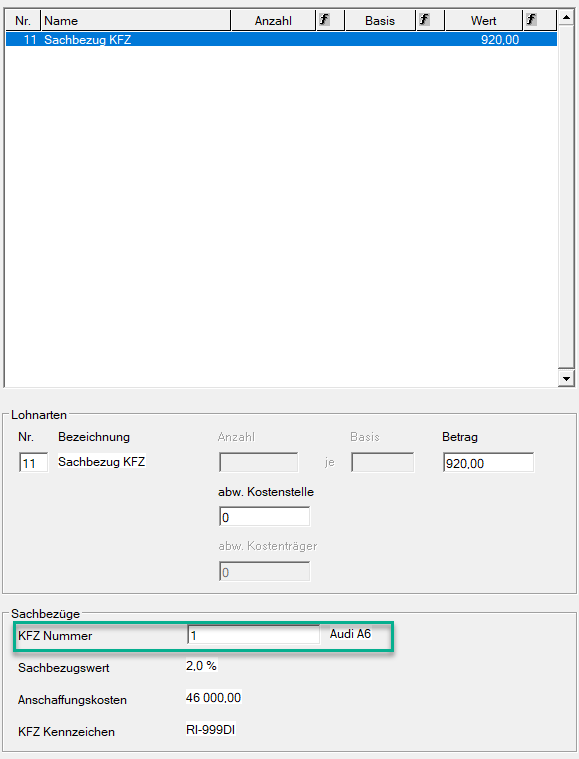
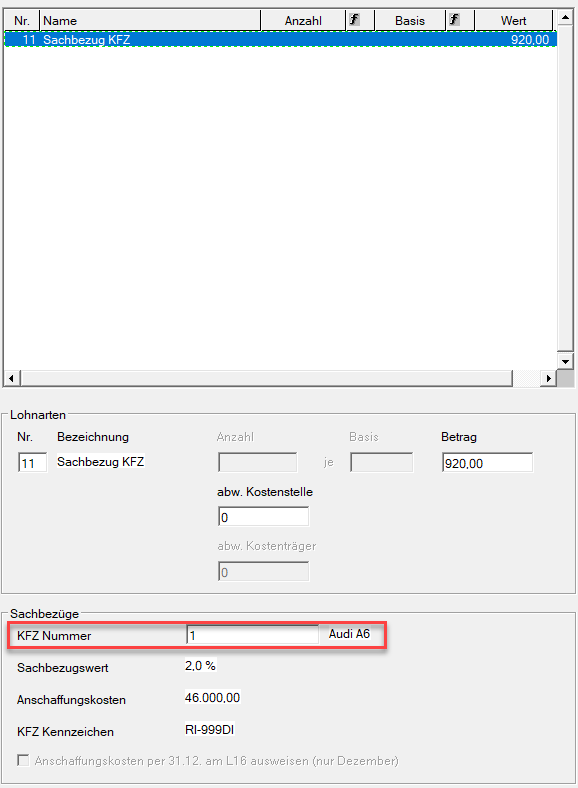
LOHN 2.26.8.0 Änderungen (#200)
* Abrechnung Sonderfälle: Mitarbeiterprämie 2026 hinzugefügt

* Clearingcode VW1924 ergänzt

* Clearingfälle: Frage VW1924 ergänzt

* Sachbezüge: Wechsel KFZ im Dezember ergänzt

* Elektronische Meldungen - KSB: Ausdruck und Speicherung KSB ELDA Webservice

* ELDA Webservice: Verlinkt mit KSB speichern und drucken

* Klientenstammdaten - Kommunalsteuer: Zahlungsreferenz Platzhalterproblem

* Sachbezug: Screens geändert

diff --git a/docs/LOHN/Abrechnungen_Sonderfälle/Mitarbeiterpraemie_2026.md b/docs/LOHN/Abrechnungen_Sonderfälle/Mitarbeiterpraemie_2026.md
@@ -1,0 +1,123 @@
+# Mitarbeiterprämie 2026
+
+Im Kalenderjahr 2026 ist es unter bestimmten Formalvoraussetzungen möglich, die **Mitarbeiterprämie** bis zur Höhe von EUR 500,00 pro Arbeitnehmer steuerfrei zu gewähren (§&nbsp;124b Z 478 lit. f EStG).
+
+## Anspruchsgrundlage
+
+Die Zahlung muss aufgrund einer lohngestaltenden Vorschrift gemäß § 68 Abs. 5 Z 5 oder 6 EStG gewährt werden. Rechtsgrundlage für die Zahlung können daher sein:
+
+- ein (Zusatz-)Kollektivvertrag, der einen Anspruch auf Mitarbeiterprämie 2026 festlegt
+- ein (Zusatz-)Kollektivvertrag, der zur Regelung einer Mitarbeiterprämie durch Betriebsvereinbarung ermächtigt, kombiniert mit einer auf dieser Grundlage abgeschlossenen Betriebsvereinbarung. In Betrieben ohne Betriebsrat kann aufbauend auf der kollektivvertraglichen Ermächtigung auch eine Vereinbarung für alle Arbeitnehmer geschlossenen werden.
+- in Branchen, in denen es keinen kollektivvertragsfähigen Arbeitgeberverband gibt (z. B. Vereine, die nicht WKO-Mitglied sind), eine Betriebsvereinbarung mit zusätzlicher ÖGB-Unterschrift. In Betrieben ohne Betriebsrat kann in diesem Fall auch eine Vereinbarung für alle Arbeitnehmer geschlossenen werden.
+
+Das bedeutet: **In Branchen, in denen es einen Arbeitgeberverband gibt** (somit bei allen Betrieben, die Mitglied in der Wirtschaftskammer, einer anderen Kammer oder einer freiwilligen Interessensvereinigung sind), **können steuerfreie Mitarbeiterprämien im Jahr 2026 ausschließlich durch Kollektivvertrag festgelegt** werden.
+
+## Auszahlungszeitpunkt
+
+Begünstigt sind nur zusätzliche Zulagen und Bonuszahlungen, die der Arbeitgeber in den Kalendermonaten **Juli bis Dezember 2026** gewährt. Das bedeutet:
+
+- Arbeitgeber, die in der Hoffnung auf einen positiven Ausgang der Evaluierung der Mitarbeiterprämie für 2026 bereits im ersten Halbjahr Auszahlungen vorgenommen haben, können die Lohnsteuerbegünstigung für die Mitarbeiterprämie 2026 nicht auf diese Zahlungen anwenden.
+- Die zweite Kaufkraftsicherungsprämie in der Metallindustrie erfüllt diese Vorgabe, da der Kollektivvertrag die Auszahlung im Juli 2026 vorsieht.
+- Die Zahlung der Mitarbeiterprämie muss nach dem Gesetzeswortlaut spätestens im Kalendermonat Dezember 2026 erfolgen. Nach den Erläuterungen zur Regierungsvorlage kann eine Nachzahlung nach § 77 Abs 5 EStG bis zum 15. 2. 2027 mittels Aufrollung als steuerfreie Mitarbeiterprämie 2026 berücksichtigt werden. Das setzt voraus, dass die gewährte Mitarbeiterprämie im Jahr 2026 fällig ist, aber eine rechtzeitige Auszahlung aufgrund besonderer Umstände nicht erfolgen kann. Die Festlegung durch die Sozialpartner und der Abschluss von Betriebsvereinbarungen auf dieser Grundlage müssen daher dennoch in dem sportlich kurzen Zeitraum von rund sechs Monaten ab Gesetzwerdung bewältigt werden.
+
+## Begünstigte Höhe
+
+Die Mitarbeiterprämie 2026 soll für den einzelnen Arbeitnehmer bis **EUR 500** steuerfrei sein. Eine im Kalenderjahr 2026 ebenfalls ausbezahlte Gewinnbeteiligung gemäß § 3 Abs 1 Z 35 EStG ist nur insoweit steuerfrei, als sie gemeinsam mit der Mitarbeiterprämie den Betrag von EUR&nbsp;3.000,00 pro Kalenderjahr nicht übersteigt.
+
+Wird mehr als EUR 500,00 für die Mitarbeiterprämie steuerfrei berücksichtigt und gleichzeitig der Gesamtbetrag von EUR 3.000,00 für die Mitarbeiterprämie und Gewinnbeteiligung überschritten, besteht ein Pflichtveranlagungstatbestand gem. [§&nbsp;41&nbsp;Abs.&nbsp;1 EStG](https://www.ris.bka.gv.at/NormDokument.wxe?Abfrage=Bundesnormen&Gesetzesnummer=10004570&Artikel=&Paragraf=41&Anlage=&Uebergangsrecht=).
+
+## Keine Befreiung im Bereich der Sozialversicherung, DB/DZ und Kommunalsteuer
+
+Für das Jahr 2026 sieht der Gesetzgeber **keine Befreiung** im Bereich der **Sozialversicherung** sowie der Nebenabgaben **DB/DZ** und **Kommunalsteuer** vor.
+
+Es ist nicht möglich, die auf die Prämie entfallenden Dienstnehmeranteile zur Sozialversicherung bei der Ermittlung der Lohnsteuer-Bemessungsgrundlage abzuziehen (laut [§ 20 Abs. 2 EStG](https://www.ris.bka.gv.at/NormDokument.wxe?Abfrage=Bundesnormen&Gesetzesnummer=10004570&Artikel=&Paragraf=20&Anlage=&Uebergangsrecht=)). Das bedeutet, dass sich der Auszahlungsbetrag an die Dienstnehmer nicht um den vollen steuerfreien Maximalbetrag von EUR 500,00 erhöht, sondern nur um einen entsprechend geringeren Nettobetrag.
+
+Wie in [§ 124b Z 478 lit. f sublit. aa EStG](https://www.ris.bka.gv.at/NormDokument.wxe?Abfrage=Bundesnormen&Gesetzesnummer=10004570&Artikel=&Paragraf=124b&Anlage=&Uebergangsrecht=) festgelegt, erhöht die Mitarbeiterprämie 2026 das Jahressechstel **nicht**.
+
+Die Abrechnung der Mitarbeiterprämie 2026 in der RZL Lohnverrechnung muss über eine neu anzulegende freie Lohnart erfolgen. Diese ist entweder unter *Stamm / Lohnarten* oder in der Kanzleilohnartentabelle unter *Klient / Kanzlei / Lohnarten, Lohnformeln* anzulegen.
+
+## Abrechnung in der RZL Lohnverrechnung
+
+Die Entscheidung ob im Bereich der Sozialversicherung ein **laufender Bezug** oder eine **Sonderzahlung** vorliegt, muss in jedem Einzelfall sorgfältig abgewogen werden. Dabei kommt es nicht nur auf den Zeithorizont der Auszahlung an, sondern auch auf die Frage, ob mit dem Dienstnehmer eine wiederholte Gewährung der Prämie vereinbart wurde oder nicht.
+
+Zudem ist zu klären, ob aus der bisherigen Auszahlung von Corona-Prämien, Teuerungsprämien oder Mitarbeiterprämie 2024 und 2025 eine wiederkehrende Zahlung abgeleitet werden kann – oder eben nicht.
+
+### Erstmalige, absolut einmalige Gewährung ohne Vereinbarung einer Wiederkehr
+
+Wird keine Wiederkehr vereinbart und handelt es sich um den erstmaligen Bezug der Mitarbeiterprämie, liegt in der Sozialversicherung ein laufender Bezug vor (**SV-Pflichtigkeit = 1**).
+
+![Image](img/image622.png){width="500"}
+
+!!! warning "Hinweis"
+    Unser Vorschlag zur Anlage der Lohnart basiert auf dem Informationsstand aus verschiedenen Fachartikeln mit Stand **Juli 2026**. Die Letztverantwortung für die korrekte Anlage der Lohnarten liegt beim Anwender.
+
+Im Bereich der Lohnsteuer gibt es eine eigene Lohnsteuerpflicht-Nr. **40 steuerfrei gem. § 124b Z 478 EStG – Mitarbeiterprämie 2025 u. 2026**.
+
+Eine Befreiung von den **Lohnnebenkosten** (DB, DZ und Kommunalsteuer) ist vom Gesetzgeber nicht vorgesehen. In diesem Bereich muss die Lohnart daher als **1 = pflichtig** definiert werden.
+
+### Wiederkehrender Bezug
+
+Wird hingegen bereits im Vorfeld eine mehrmalige Auszahlung dieser Lohnart vereinbart, gilt sie im Bereich der Sozialversicherung als **Sonderzahlung** (**Pflichtigkeit = 2**). Alle übrigen Regelungen bleiben unverändert.
+
+![Image](img/image623.png){width="500"}
+
+!!! warning "Hinweis"
+    Unser Vorschlag zur Anlage der Lohnart basiert auf dem Informationsstand aus verschiedenen Fachartikeln mit Stand **Juli 2026**. Die Letztverantwortung für die korrekte Anlage der Lohnarten liegt beim Anwender.
+
+### Beispiele
+
+**Beispiel 1**
+
+In beiden Varianten der Auszahlung (laufender Bezug oder Sonderzahlung) trifft die Pflichtigkeit in der Sozialversicherung auf eine Abgabenbefreiung in der Lohnsteuer. Diese inzwischen seltene Konstellation führt - insbesondere im Zusammenhang mit der Darstellung am L16 (Jahreslohnzettel) - dazu, dass die SV-Dienstnehmeranteile „neutralisiert“ werden müssen. Gemäß [§ 20 Abs. 2 EStG](https://www.ris.bka.gv.at/NormDokument.wxe?Abfrage=Bundesnormen&Gesetzesnummer=10004570&Artikel=&Paragraf=20&Anlage=&Uebergangsrecht=) dürfen Sozialversicherungsbeiträge, die sich auf nicht steuerpflichtige Einkünfte beziehen, nicht als Werbungskosten vom steuerpflichtigen Einkommen abgezogen werden.
+
+- Laufender Bezug: EUR 3.500,00
+- Mitarbeiterprämie 2026 (einmalig): EUR 500,00
+
+![Image](img/image633.png){width="600"}
+
+Der gesamte SV-Dienstnehmeranteil beträgt EUR 722,80 und setzt sich wie folgt zusammen:
+
+- EUR 632,45 entfallen auf das laufende Gehalt (3.500,00 x 18,07 %)
+- EUR 90,35 entfallen auf die steuerfreie Mitarbeiterprämie 2026 (500,00 x 18,07 %)
+
+Der auf die Mitarbeiterprämie entfallende Anteil von EUR 90,35 darf **nicht** als Werbungskosten bei der Ermittlung der Lohnsteuer-Bemessungsgrundlage berücksichtigt werden, da die zugrunde liegende Prämie steuerfrei ist.
+
+|                                 |         |              |
+| :------------------------------ | :------ | -----------: |
+| Brutto                          | EUR     |     4.000,00 |
+| - SV-DNA (3.500,00 x 18,07 %)   | EUR     |     - 632,45 |
+| - steuerfreie Mitarbeiterprämie | EUR     |     - 500,00 |
+| **Lohnsteuer-BMGL lfd.**        | **EUR** | **2.867,55** |
+
+Im L16 (Jahreslohnzettel) wird über die Kennzahl 226 jener Teil der SV-Dienstnehmeranteile ausgeschieden, der auf die steuerfreie Mitarbeiterprämie 2026 entfällt. Dieser Anteil darf die laufende Lohnsteuer-Bemessungsgrundlage daher **nicht** mindern.
+
+![Image](img/image634.png){width="600"}
+
+![Image](img/image635.png){width="600"}
+
+**Beispiel 2**
+
+- Laufender Bezug: EUR 8.000,00
+- Mitarbeiterprämie 2026 (einmalig): EUR 500,00
+
+Bei Überschreitung der laufenden Höchstbeitragsgrundlage müssen die SV-Dienstnehmeranteile anteilig im Verhältnis der Bruttobezüge zugeordnet werden (EUR 8.000,00 = 94,12 % zu EUR&nbsp;500,00 = 5,88 %).
+
+![Image](img/image636.png){width="600"}
+
+Der gesamte SV-Dienstnehmeranteil beträgt EUR 1.252,25 und wird entsprechend dem Verhältnis 94,12 % zu 5,88 % aufgeteilt:
+
+- EUR 1.178,59 entfallen auf den laufenden Bezug und sind abzugsfähig (1.252,25 x 94,12 %)
+- EUR 73,66 entfallen auf die steuerfreie Mitarbeiterprämie 2026 und sind nicht als Werbungskosten abzugsfähig (1.252,25 x 5,88 %)
+
+Nur der auf den steuerpflichtigen Teil entfallende Anteil der SV-Beiträge darf bei der Ermittlung der Lohnsteuer-Bemessungsgrundlage als Werbungskosten berücksichtigt werden.
+
+|                                 |         |              |
+| :------------------------------ | :------ | -----------: |
+| Brutto                          | EUR     |     8.500,00 |
+| - SV-DNA                        | EUR     |   - 1.178,59 |
+| - steuerfreie Mitarbeiterprämie | EUR     |     - 500,00 |
+| **Lohnsteuer-BMGL lfd.**        | **EUR** | **6.821,41** |
+
+![Image](img/image637.png){width="600"}
+
+Dadurch wird der Teil der Sozialversicherungsbeiträge, der auf die Mitarbeiterprämie entfällt (EUR&nbsp;73,66), über die Kennzahl 226 ausgeschieden.

diff --git a/docs/LOHN/Sachbezüge/Sachbezug_in_der_Abrechnung.md b/docs/LOHN/Sachbezüge/Sachbezug_in_der_Abrechnung.md
@@ -25,3 +25,18 @@ Ein Ausdruck bzw. die elektronische Übermittlung des Jahreslohnzettels 2026 ist
     
     Die *Anschaffungskosten Kfz zum 31.12.* sind nur dann anzugeben, wenn zum 31.12. tatsächlich ein KFZ-Sachbezug vorliegt.
 
+## Wechsel des KFZ-Sachbezugs im Dezember
+
+Wird das Fahrzeug im Dezember gewechselt, sind ausschließlich die Anschaffungskosten des am 31. Dezember aktuellen KFZ-Sachbezugs auszuweisen.
+
+Damit der Fahrzeugwechsel auf dem Jahreslohnzettel korrekt dargestellt wird, deaktivieren Sie beim bisherigen Sachbezug unter **Freie Lohnarten** oder **Abzüge** die Option *Anschaffungskosten per 31.12. am L16 ausweisen (nur Dezember)*.
+
+![Image](img/image872.png)
+
+Dadurch werden die Anschaffungskosten dieses Fahrzeugs für Dezember nicht berücksichtigt. Auf dem Jahreslohnzettel (L16) werden nur die Anschaffungskosten des zum 31. Dezember aktiven Fahrzeugs ausgewiesen.
+
+!!! warning "Hinweis"
+    Die Option *Anschaffungskosten per 31.12. am L16 ausweisen (nur Dezember)* wirkt sich ausschließlich auf die Anschaffungskosten aus. Die Prozentsätze sind unabhängig davon, ob der Sachbezug am 31. Dezember aktiv ist, auf dem Jahreslohnzettel (L16) auszuweisen.
+
+!!! info "Tipp"
+    In den Monaten Jänner bis November ist die Option *Anschaffungskosten per 31.12. am L16 ausweisen (nur Dezember)* deaktiviert und ausgegraut.

diff --git a/docs/LOHN/Elektronische_Meldungen_ÖGK/Krankenstandsbescheinigungen.md b/docs/LOHN/Elektronische_Meldungen_ÖGK/Krankenstandsbescheinigungen.md
@@ -36,3 +36,19 @@ Wird zusätzlich das Feld *in Krankenstandskartei übernehmen* aktiviert, werden
 
 !!! info "Tipp"
     Nur durch Aktivierung des Auswahlfeldes *in Krankenstandskartei übernehmen* werden die Krankenstände automatisch in die Abrechnung des Dienstnehmers übernommen. Wenn das Auswahlfeld einmal aktiviert wurde, bleibt die Auswahl beim nächsten Import der Krankenstandsbescheinigungen erhalten.
+
+## Krankenstandsbescheinigungen speichern und ausdrucken
+
+Öffnen Sie dazu den Menüpunkt *Klient / Elektronische Übermittlung / Krankenstandsbescheinigungen*. Mit einem Doppelklick auf eine Krankenstandsbescheinigung wird diese im ÖGK-Viewer geöffnet. Anschließend kann sie gespeichert oder ausgedruckt werden.
+
+![Image](img/image213.png)
+
+!!! info "Tipp"
+    Mit einem Doppelklick auf die fett hervorgehobene Zeile können alle darunter angeführten Krankenstandsbescheinigungen gleichzeitig ausgedruckt werden.
+
+Über die Schaltfläche *Filter* lassen sich bereits importierte Krankenstandsbescheinigungen erneut auflisten. Diese können anschließend gespeichert oder ausgedruckt werden.
+
+![Image](img/image214.png)
+
+!!! warning "Hinweis"
+    Der *Filter* ist nur verfügbar, wenn der **ELDA-Webservice** in den ELDA-Einstellungen **aktiviert** ist.

diff --git a/docs/LOHN/Klientenstammdaten/Stammdaten_Klient/KommSt_UBahn.md b/docs/LOHN/Klientenstammdaten/Stammdaten_Klient/KommSt_UBahn.md
@@ -36,6 +36,15 @@ Für die automatische Eintragung des Monats und des Jahres können Sie die Kürz
 !!! warning "Hinweis"
     In Ausnahmefällen kann durch Anwahl der Schaltfläche *Details* das Zahlungsreferenzfeld für jeden Monat einzeln eingetragen werden. Diese Möglichkeit kann genutzt werden, wenn die von der Behörde vergebenen Kundendatenfelder nicht systematisch aufgebaut sind.
 
+!!! info "Tipp"
+    Wird in der Zahlungsreferenz beispielsweise `KommSt 12345` eingetragen, erscheint für den Monat Juli die Zahlungsreferenz `Ko07St 12345`.
+    
+    Ursache dafür ist, dass `mm` als Platzhalter für den Monat interpretiert und im Juli durch `07` ersetzt wird.
+
+    Um diese Ersetzung zu vermeiden, setzen Sie `KommSt` unter Anführungszeichen: `"KommSt" 12345`
+
+    Dadurch wird in der Zahlungsreferenz unverändert `KommSt 12345` ausgegeben.
+
 **Kommunalsteuerschließungserklärung** 
 
 Wenn eine [Kommunalsteuer-Schließungserklärung](../../Elektronische_Kommunalsteuererklaerung.md) erstellt werden muss, ist im Feld *Schließung der Betriebsstätte* das Datum der Schließung des Betriebes einzutragen.

diff --git a/docs/LOHN/Clearingfaelle.md b/docs/LOHN/Clearingfaelle.md
@@ -4905,6 +4905,36 @@ Die nachfolgende Übersicht basiert auf dem von der Österreichischen Gesundheit
   </div>
 </details>
 
+## VW1924
+
+<details style="margin-bottom: 1rem;">
+  <summary style="cursor: pointer; font-weight: 600;">
+    VW1924 - Für @1 @2, Geburtsdatum @3, wurde die Versicherungsnummer @4 vergeben.
+  </summary>
+
+  <div style="padding: 0.75rem 0 0 1rem;">
+
+    <p>
+      <u>Variabler Text:</u><br>
+      @1: Vorname Versicherter<br>
+      @2: Nachname Versicherter<br>
+      @3: Geburtsdatum Versicherter<br>
+      @4: Versicherungsnummer
+    </p>
+
+    <p>
+      <u>Erklärung bzw. Beispiel:</u><br>
+      Für Jean-Luc Picard, Geburtsdatum 29.08.1988, wurde die Versicherungsnummer 5266290888 vergeben.
+    </p>
+
+    <p>
+      <u>Lösungsmöglichkeit:</u><br>
+      Dieser Clearingfall dient lediglich als Hinweis darauf, dass eine Versicherungsnummer vergeben wurde. Es sind keine weiteren Schritte Ihrerseits erforderlich.
+    </p>
+
+  </div>
+</details>
+
 ## VW1925
 
 <details style="margin-bottom: 1rem;">

diff --git a/docs/LOHN/ELDA_Webservice.md b/docs/LOHN/ELDA_Webservice.md
@@ -94,3 +94,7 @@ Die Rückmeldungen stehen im Lohnprogramm weiterhin zur Verfügung:
 
 !!! warning "Hinweis"
     Bitte beachten Sie, dass mit der Umstellung auf das Webservice die Rückmeldungen, Krankenstandsbescheinigungen oder Clearingfälle nicht mehr direkt in der ELDA-Software angezeigt werden. Diese werden künftig in ein eigenes Empfangsverzeichnis für das neue Webservice übernommen und von dort wie bisher in den bekannten Programmpunkten angezeigt, insbesondere für Krankenstandsbescheinigungen, Clearingfälle, Rückmeldungen zu den VSNR-Anforderungen und Entsendungsanträgen.
+
+## Krankenstandsbescheinigungen speichern und ausdrucken
+
+[Krankenstandsbescheinigungen speichern und ausdrucken](../LOHN/Elektronische_Meldungen_ÖGK/Krankenstandsbescheinigungen.md/#krankenstandsbescheinigungen-speichern-und-ausdrucken)
